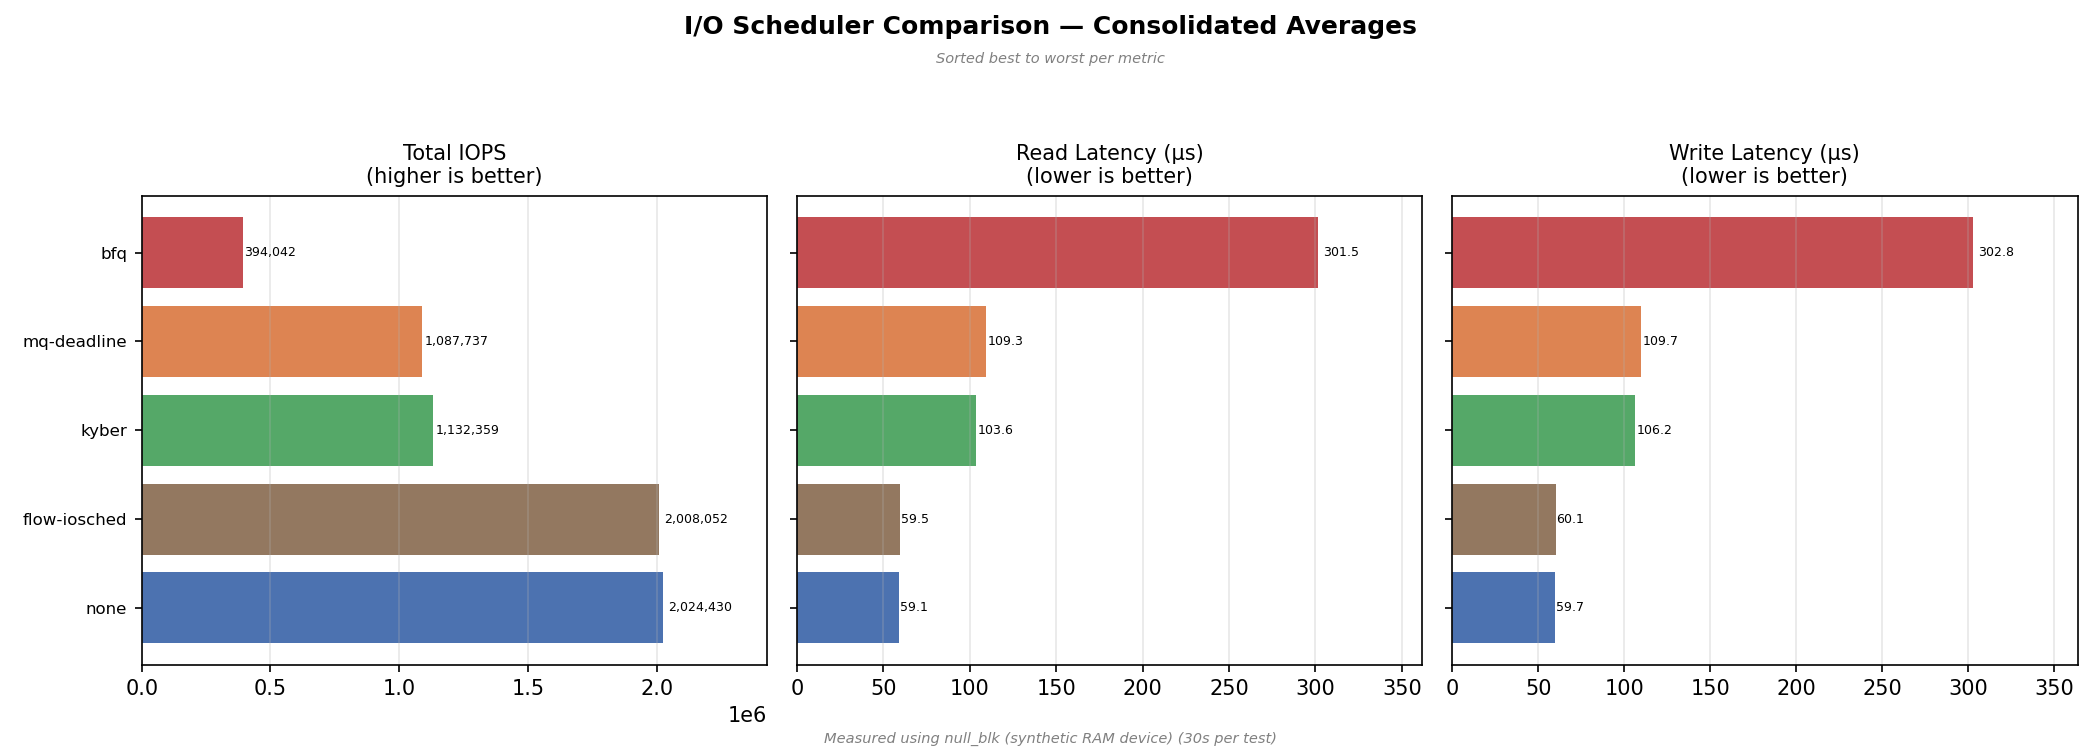
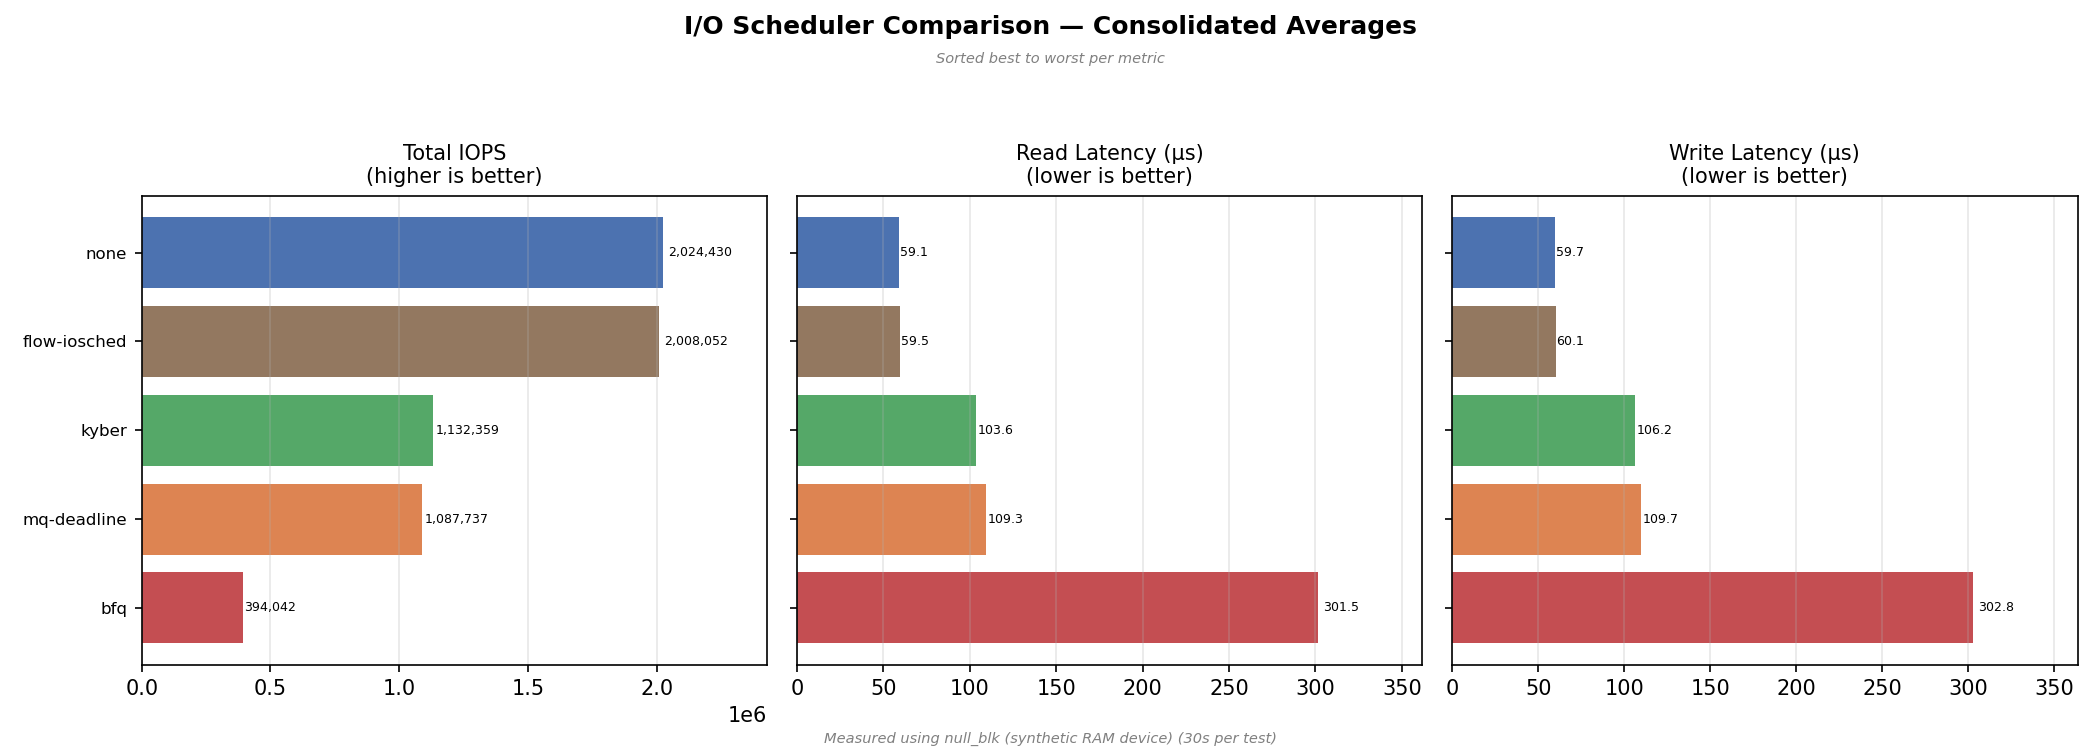
plot: invert y-axis on barh charts so best bar appears at top
barh positions y=0 at the bottom and y increases upward, so the first (best) scheduler ended up at the bottom. Add invert_yaxis() so the highest-value bar is at the top, matching the 'sorted best to worst' annotation.

diff --git a/bench-tests/plot-results.py b/bench-tests/plot-results.py
@@ -229,6 +229,7 @@ for wi, wl in enumerate(workloads):
     bars = ax.barh(range(len(scheds)), iops, color=[color_for(s) for s in scheds])
     ax.set_yticks(range(len(scheds)))
     ax.set_yticklabels(scheds, fontsize=7)
+    ax.invert_yaxis()
     ax.set_xlabel("IOPS")
     ax.set_title(wl_labels[wi].replace("\n", " "), fontsize=9)
     ax.grid(axis="x", alpha=0.3)
@@ -286,6 +287,7 @@ for ax_i, (title, direction, extractor, qualifies) in enumerate(metrics):
                    color=[color_for(s) for s in sorted_scheds])
     ax.set_yticks(range(len(sorted_scheds)))
     ax.set_yticklabels(sorted_scheds, fontsize=8)
+    ax.invert_yaxis()
     dir_label = "higher is better" if direction == "higher" else "lower is better"
     ax.set_title(f"{title}\n({dir_label})", fontsize=10)
     max_val = max(sorted_vals) if sorted_vals else 1
